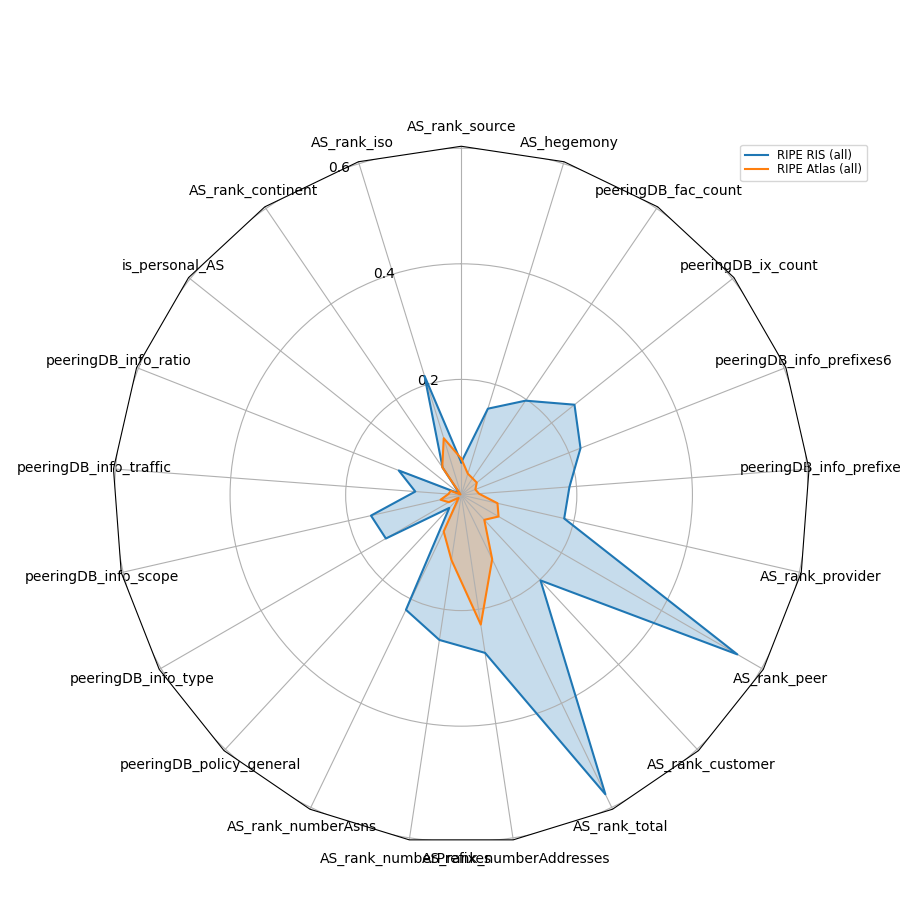
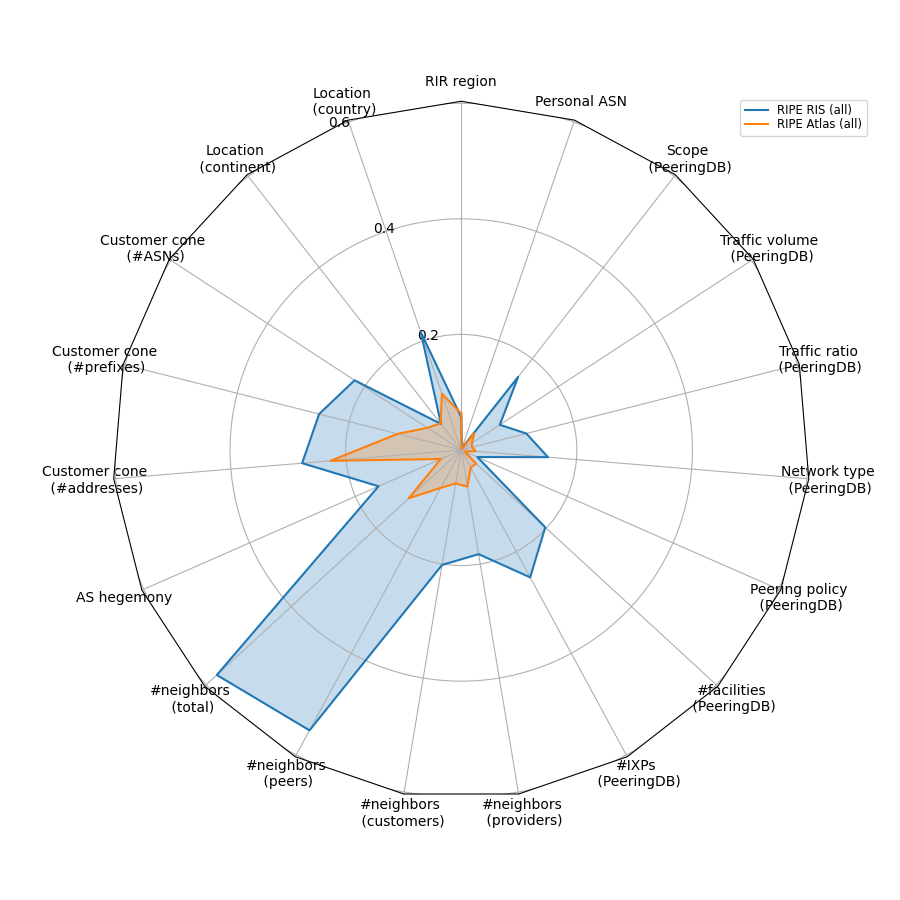
updates to bias calculation and plotting

diff --git a/Analysis/bias/bias_utils.py b/Analysis/bias/bias_utils.py
@@ -36,25 +36,29 @@ def kl_divergence(p,q,alpha=0):
 	return kl_div, d 
 
 
-def kl_divergence_from_data(target_data, sample_data, data_type, **params):
-	'''
-	Returns the KL distance between two data vectors (target_data and sample_data). 
-	If the data (data_type) is numerical, it calculates the   distributions p1 and p2.
 
+def get_distribution_vectors_from_data(target_data, sample_data, data_type, nb_bins=None):
+	'''
+	Returns two distribution vectors for the given target and sample data (i.e., vector of values that sum to one)
+	and a vector with the bins that correspond to each position of the vector.
+
+	If the data (data_type) is numerical, it bins the values in equal <nb_bins> bins. If the data are categorical, 
+	the returned bins are the catefories appearing in the data.
 
 	:param 	target_data:	(list / numpy array) values of the "target distribution" (e.g., groundtruth)
 	:param 	sample_data:	(list / numpy array) values of the samples, whose bias will be quantified
 	:param 	data_type:		(str) type of input data; available options {'numerical', 'categorical'}
-	:param 	params:			(dict) dictionary with params for the selected method
 									- for 'numerical': params are {'bins', 'alpha'}
 									- for 'categorical': params are {'alpha'}
-	:return:		(float, list, list)
-						- the KL divergence value
-						- the list of elements of KL divergence (whose sum is the KL divergence value)
-						- the bins (for 'numerical') or the categories (for 'categorical') corresponding to the list of KL divergence values
+	:return:		(list, list, list)
+						- the distribution vector p of the target_data
+						- the distribution vector q of the sample_data
+						- the bins (for 'numerical') or the categories (for 'categorical') corresponding to 
+						  the distribution vectors; the size of bins is nb_bins+1 (for 'numerical') or equal to 
+						  the number of categories (for 'categorical')
 	'''
 	if data_type == 'numerical':
-		p, bins = np.histogram(target_data, params['bins'])
+		p, bins = np.histogram(target_data, nb_bins)
 		p = p / len(target_data)
 		q, bins = np.histogram(sample_data, bins)
 		q = q / len(sample_data)
@@ -69,7 +73,38 @@ def kl_divergence_from_data(target_data, sample_data, data_type, **params):
 		q = q.values
 	else:
 		raise ValueError
-	bias_score, bias_per_bin = kl_divergence(p, q, alpha=params['alpha'])
+
+	return p,q, bins
+
+
+def get_bias_from_data(method, target_data, sample_data, data_type, **params):
+	'''
+	Returns the bias metric (KL divergence, Total Variation, or Max variation distance) 
+	between two data vectors (target_data and sample_data). 
+
+	:param 	target_data:	(list / numpy array) values of the "target distribution" (e.g., groundtruth)
+	:param 	sample_data:	(list / numpy array) values of the samples, whose bias will be quantified
+	:param 	data_type:		(str) type of input data; available options {'numerical', 'categorical'}
+									- for 'numerical': params are {'bins', 'alpha'}
+									- for 'categorical': params are {'alpha'}
+	:return:		(float, list, list)
+						- the bias metric value
+						- the list of elements of the bias metrics (whose sum is the bias metric value 
+						  in case of KL divergence and Total Variation, and whose max is the bias metric value
+						  in case of Max Variation)
+						- the bins (for 'numerical') or the categories (for 'categorical') corresponding to the list of Total Variation values
+	'''
+	p, q, bins = get_distribution_vectors_from_data(target_data, sample_data, data_type, nb_bins=params.get('bins', None))
+	if method == 'kl_divergence':
+		bias_score, bias_per_bin = kl_divergence(p, q, alpha=params['alpha'])
+	elif method == 'total_variation':
+		bias_per_bin = [0.5*np.abs(p[i]-q[i]) for i in range(len(p))]
+		bias_score = np.sum(bias_per_bin)
+	elif method == 'max_variation':
+		bias_per_bin = [np.abs(p[i]-q[i]) for i in range(len(p))]
+		bias_score = np.max(bias_per_bin)
+	else:
+		raise ValueError
 	return bias_score, bias_per_bin, bins
 
 
@@ -87,8 +122,8 @@ def bias_score(target_data, sample_data, method='kl_divergence', **params):
 									-- for 'kl_divergence': params are {'data_type', 'bins', 'alpha'}
 	:return:		(float, list)  the KL divergence value, and the list of elements of KL divergence
 	'''
-	if method == 'kl_divergence':
-		bias_score, bias_per_bin, bins = kl_divergence_from_data(target_data, sample_data, **params)
+	if method in ['kl_divergence', 'total_variation', 'max_variation']:
+		bias_score, bias_per_bin, bins = get_bias_from_data(method, target_data, sample_data, **params)
 	elif method == 'ks_test':
 		statistic, p_value = kstest(target_data, sample_data)
 		bias_score = 1-p_value

diff --git a/use_cases/bias_in_monitoring_infrastructure/example_script_calculate_bias.py b/use_cases/bias_in_monitoring_infrastructure/example_script_calculate_bias.py
@@ -19,10 +19,39 @@ CATEGORICAL_FEATURES =  ['AS_rank_source', 'AS_rank_iso', 'AS_rank_continent', '
 'peeringDB_info_traffic', 'peeringDB_info_scope', 'peeringDB_info_type', 'peeringDB_policy_general']
 
 NUMERICAL_FEATURES =  ['AS_rank_numberAsns', 'AS_rank_numberPrefixes', 'AS_rank_numberAddresses', 'AS_rank_total',
-'AS_rank_customer', 'AS_rank_peer', 'AS_rank_provider', 'peeringDB_info_prefixes4', 'peeringDB_info_prefixes6', 
-'peeringDB_ix_count', 'peeringDB_fac_count', 'AS_hegemony']
+'AS_rank_customer', 'AS_rank_peer', 'AS_rank_provider', 'peeringDB_ix_count', 'peeringDB_fac_count', 'AS_hegemony']
 
-FEATURES = CATEGORICAL_FEATURES+NUMERICAL_FEATURES
+# FEATURES = CATEGORICAL_FEATURES+NUMERICAL_FEATURES
+
+
+FEATURE_NAMES_DICT = {
+    # Location-related info
+    'AS_rank_source': 'RIR region',
+    'AS_rank_iso': 'Location\n (country)',
+    'AS_rank_continent': 'Location\n (continent)',
+    # network size info
+    'AS_rank_numberAsns': 'Customer cone\n (#ASNs)', 
+    'AS_rank_numberPrefixes': 'Customer cone\n (#prefixes)',
+    'AS_rank_numberAddresses': 'Customer cone\n (#addresses)',
+    'AS_hegemony': 'AS hegemony',
+    # Topology info
+    'AS_rank_total': '#neighbors\n (total)',
+    'AS_rank_peer': '#neighbors\n (peers)', 
+    'AS_rank_customer': '#neighbors\n (customers)', 
+    'AS_rank_provider': '#neighbors\n (providers)',
+    # IXP related
+    'peeringDB_ix_count': '#IXPs\n (PeeringDB)', 
+    'peeringDB_fac_count': '#facilities\n (PeeringDB)', 
+    'peeringDB_policy_general': 'Peering policy\n (PeeringDB)',
+    # Network type
+    'peeringDB_info_type': 'Network type\n (PeeringDB)',
+    'peeringDB_info_ratio': 'Traffic ratio\n (PeeringDB)',
+    'peeringDB_info_traffic': 'Traffic volume\n (PeeringDB)', 
+    'peeringDB_info_scope': 'Scope\n (PeeringDB)',
+    'is_personal_AS': 'Personal ASN', 
+}
+FEATURES = list(FEATURE_NAMES_DICT.keys())
+
 
 
 ## useful methods
@@ -50,6 +79,8 @@ ris_asns_v6 = [i for k,i in ris_dict.items() if (':' in k) and (i in df.index)]
 
 ## calculate bias for all features
 bias_df = pd.DataFrame(index=FEATURES)
+bias_df_tv = pd.DataFrame(index=FEATURES)
+bias_df_max = pd.DataFrame(index=FEATURES)
 
 network_sets = ['all', 'RIPE RIS (all)', 'RIPE RIS (v4)', 'RIPE RIS (v6)', 'RIPE Atlas (all)', 'RIPE Atlas (v4)', 'RIPE Atlas (v6)']
 network_sets_dict = dict()
@@ -77,13 +108,21 @@ for feature in FEATURES:
 
 	for s in network_sets[1:]:
 		bias_df.loc[feature,s] = bu.bias_score(network_data_processed['all'], network_data_processed[s], method='kl_divergence', **params)
+		bias_df_tv.loc[feature,s] = bu.bias_score(network_data_processed['all'], network_data_processed[s], method='total_variation', **params)
+		bias_df_max.loc[feature,s] = bu.bias_score(network_data_processed['all'], network_data_processed[s], method='max_variation', **params)
 
 print('Bias per monitor set (columns) and per feature (rows)')
-print(bias_df[['RIPE RIS (all)','RIPE Atlas (all)']].round(2))
+print_df = bias_df[['RIPE RIS (all)','RIPE Atlas (all)']].copy()
+print_df.index = [n.replace('\n','') for n in FEATURE_NAMES_DICT.values()]
+print(print_df.round(2))
 
 
 ## plot the radar plot of biases
 plot_df = bias_df[network_sets[1:]]
-radar_chart.plot_radar_from_dataframe(plot_df, colors=None, frame='polygon', save_filename='fig_radar_detailed.png')
+radar_chart.plot_radar_from_dataframe(plot_df, colors=None, frame='polygon', save_filename='fig_radar_detailed.png', varlabels=FEATURE_NAMES_DICT)
 plot_df = bias_df[['RIPE RIS (all)','RIPE Atlas (all)']]
-radar_chart.plot_radar_from_dataframe(plot_df, colors=None, frame='polygon', save_filename='fig_radar.png')
+radar_chart.plot_radar_from_dataframe(plot_df, colors=None, frame='polygon', save_filename='fig_radar.png', varlabels=FEATURE_NAMES_DICT)
+plot_df = bias_df_tv[['RIPE RIS (all)','RIPE Atlas (all)']]
+radar_chart.plot_radar_from_dataframe(plot_df, colors=None, frame='polygon', save_filename='fig_radar_tv.png', varlabels=FEATURE_NAMES_DICT)
+plot_df = bias_df_max[['RIPE RIS (all)','RIPE Atlas (all)']]
+radar_chart.plot_radar_from_dataframe(plot_df, colors=None, frame='polygon', save_filename='fig_radar_max.png', varlabels=FEATURE_NAMES_DICT)

diff --git a/Analysis/bias/radar_chart.py b/Analysis/bias/radar_chart.py
@@ -96,7 +96,7 @@ def radar_factory(num_vars, frame='circle'):
 
 
 
-def plot_radar_from_dataframe(df, colors=None, frame='polygon', cmap='tab10', rgrids=[0.2, 0.4, 0.6, 0.8], alpha=0.25, save_filename=None, show=False, fontsize='small'):
+def plot_radar_from_dataframe(df, colors=None, frame='polygon', cmap='tab10', rgrids=[0.2, 0.4, 0.6, 0.8], alpha=0.25, save_filename=None, show=False, fontsize='small', varlabels=None):
     '''
     Generates a radar plot from the given dataframe (df) with axes the rows of the df, surfaces the columns of the df
     and the values along each axis correspond to the values of the df. 
@@ -107,6 +107,7 @@ def plot_radar_from_dataframe(df, colors=None, frame='polygon', cmap='tab10', rg
     :param  cmap:           (string) the cmap of the colors to be used; if colors is not None, it is not taken into account
     :param  save_filename:  (string) the filename to save the generated plot
     :param  show:           (boolean) if True it shows the plot
+    :param  varlabels:      (dict) dict with mapping of feature names in the df (str) to names appearing in the plot (str)
 
     the other parameters are set for formatting the plot
     '''
@@ -118,7 +119,8 @@ def plot_radar_from_dataframe(df, colors=None, frame='polygon', cmap='tab10', rg
     M = len(labels)
     theta = radar_factory(N, frame=frame)   # get the radar plot 
     fig, ax = plt.subplots(figsize=(9, 9), nrows=1, ncols=1, subplot_kw=dict(projection='radar'))
-    fig.subplots_adjust(wspace=0.25, hspace=0.20, top=0.85, bottom=0.05)
+    fig.subplots_adjust(wspace=0.05, hspace=0.05, top=0.95, bottom=0.05)#, right=0.85, left=0.15)
+
     if colors is None:
         cmap = get_cmap(cmap)
         if M>10:
@@ -133,9 +135,12 @@ def plot_radar_from_dataframe(df, colors=None, frame='polygon', cmap='tab10', rg
     legend = ax.legend(labels, loc=(0.9, .95), labelspacing=0.1, fontsize=fontsize)
 
     for d, color in zip(case_data, colors):
-            ax.fill(theta, d, facecolor=color, alpha=alpha)
+        ax.fill(theta, d, facecolor=color, alpha=alpha)
 
-    ax.set_varlabels(features)
+    if varlabels is None:
+        ax.set_varlabels(features)
+    else:
+        ax.set_varlabels([varlabels[i] for i in features])
 
     if save_filename is not None:
         plt.savefig(save_filename)

diff --git a/use_cases/bias_in_monitoring_infrastructure/README.md b/use_cases/bias_in_monitoring_infrastructure/README.md
@@ -6,44 +6,62 @@ The Internet monitoring infrastructure is not uniformly deployed in ASes. It is 
 * Is the infrastructure more biased in terms of location or network sizes?
 
 
-To quantify the bias along a dimension (e.g., network type _peeringDB_info_type_), we compare the distribution of all ASes vs the distribution of the ASes that host monitors. For example, let the fraction of all ASes with specific types be _{large network: 0.2, medium network: 0.3, small network: 0.5}_ and the fraction of ASes with monitors be _{large network: 0.4, medium network: 0.4, small network: 0.2}_; then we need to quantify the difference among the two distributions represented by the vectors _[0.2, 0.3, 0.5]_ and _[0.4, 0.4, 0.2]_. We use the [Kullback–Leibler (KL) divergence]( https://en.wikipedia.org/wiki/Kullback%E2%80%93Leibler_divergence ) metric to quantify the difference in the two distributions (in fact, we use a smoothed version to bound it to values up to 1). The metric takes values in the interval [0,1], where 0 corresponds to no bias, and larger values correspond to more bias.
+To quantify the bias along a dimension (e.g., network type _peeringDB_info_type_), we compare the distribution of all ASes vs the distribution of the ASes that host monitors. For example, let the fraction of all ASes with specific types be _{large network: 0.2, medium network: 0.3, small network: 0.5}_ and the fraction of ASes with monitors be _{large network: 0.4, medium network: 0.4, small network: 0.2}_; then we need to quantify the difference among the two distributions represented by the vectors _[0.2, 0.3, 0.5]_ and _[0.4, 0.4, 0.2]_. To quantify the difference in the two distributions, we can use any of the following metrics 
+- [Kullback–Leibler (KL) divergence]( https://en.wikipedia.org/wiki/Kullback%E2%80%93Leibler_divergence ) (in fact, we use a smoothed version to bound it to values up to 1); _unless otherwise specified, this is the default metric we use_
+- [Total variation (TV) distance]( https://en.wikipedia.org/wiki/Total_variation_distance_of_probability_measures ), which is the sum of the distances of two distributions P and Q (or, the L1 norm), i.e., _TV=0.5*sum{|P-Q|}_
+- Max variation distance, which is the max distances among two distributions P and Q (or, the L1-inf norm), i.e., _max{|P-Q|}_
+
+All metrics take values in the interval [0,1], where 0 corresponds to no bias, and larger values correspond to more bias. Each metric has a different interpretation, and results from one metric should not be compared with results from another metric in a quantitative way (only qualitative comparison).
 
 
 The results below are generated with the script `example_script_calculate_bias.py`, which calculates the bias of monitoring infrastructure along different dimentions, and (i) prints the results in the terminal and (ii) generates radar plots for visualizing the bias
 
 
-
 The following table shows the bias of each set of monitors (columns) along different dimensions (rows)
 ```
-DIMENSION                           RIPE RIS (all)    RIPE Atlas (all)
-AS_rank_source                      0.06              0.06
-AS_rank_iso                         0.22              0.10
-AS_rank_continent                   0.06              0.06
-is_personal_AS                      0.00              0.00
-peeringDB_info_ratio                0.12              0.02
-peeringDB_info_traffic              0.08              0.02
-peeringDB_info_scope                0.16              0.04
-peeringDB_info_type                 0.15              0.03
-peeringDB_policy_general            0.03              0.01
-AS_rank_numberAsns                  0.22              0.07
-AS_rank_numberPrefixes              0.25              0.11
-AS_rank_numberAddresses             0.28              0.23
-AS_rank_total                       0.57              0.12
-AS_rank_customer                    0.20              0.06
-AS_rank_peer                        0.55              0.07
-AS_rank_provider                    0.18              0.06
-peeringDB_info_prefixes4            0.19              0.03
-peeringDB_info_prefixes6            0.22              0.03
-peeringDB_ix_count                  0.25              0.03
-peeringDB_fac_count                 0.20              0.03
-AS_hegemony                         0.16              0.04
+                            		  RIPE RIS (all)    RIPE Atlas (all)
+### LOCATION INFO ###
+RIR region                            0.06              0.06
+Location (country)                    0.22              0.10
+Location (continent)                  0.06              0.06
+
+### NETWORK SIZE INFO ### 
+Customer cone (#ASNs)                 0.22              0.07
+Customer cone (#prefixes)             0.25              0.11
+Customer cone (#addresses)            0.28              0.23
+AS hegemony                           0.16              0.04
+
+### TOPOLOGY INFO ###
+#neighbors (total)                    0.57              0.12
+#neighbors (peers)                    0.55              0.07
+#neighbors (customers)                0.20              0.06
+#neighbors (providers)                0.18              0.06
+
+### IXP-RELATED INFO ###
+#IXPs (PeeringDB)                     0.25              0.03
+#facilities (PeeringDB)               0.20              0.03
+Peering policy (PeeringDB)            0.03              0.01
+
+### NETWORK TYPE INFO ###
+Network type (PeeringDB)              0.15              0.03
+Traffic ratio (PeeringDB)             0.12              0.02
+Traffic volume (PeeringDB)            0.08              0.02
+Scope (PeeringDB)                     0.16              0.04
+Personal ASN                          0.00              0.00
 ```
 
-A visual presentation of the bias is given below in the radar plot (reminder: larger values, i.e., far from the center, corresponds to more bias)
-
-![Radar plot - bias](./fig_radar.png?raw=true)
+A visual presentation of the bias is given below in the radar plot on the left (reminder: larger values, i.e., far from the center, corresponds to more bias); on the right, a more detailed version of the same plot, where the bias is depicted for IPv4 and IPv6 set of monitors
 
 
-A more detailed version of the above plot, where the bias is depicted for IPv4 and IPv6 set of monitors, is shown below
+Radar plot - bias             |  Radar plot - bias detailed
+:-------------------------:|:-------------------------:
+![Radar plot - bias](./fig_radar.png?raw=true)  |  ![Radar plot - bias detailed](./fig_radar_detailed.png?raw=true)
 
-![Radar plot - bias detailed](./fig_radar_detailed.png?raw=true)
+
+
+Below the same plot with using as bias metrics the Total variation and Max variation distances
+
+Total Variation             |  Max Variation
+:-------------------------:|:-------------------------:
+![Radar plot - bias - tv](./fig_radar_tv.png?raw=true)  |  ![Radar plot - bias - max](./fig_radar_max.png?raw=true)
+
